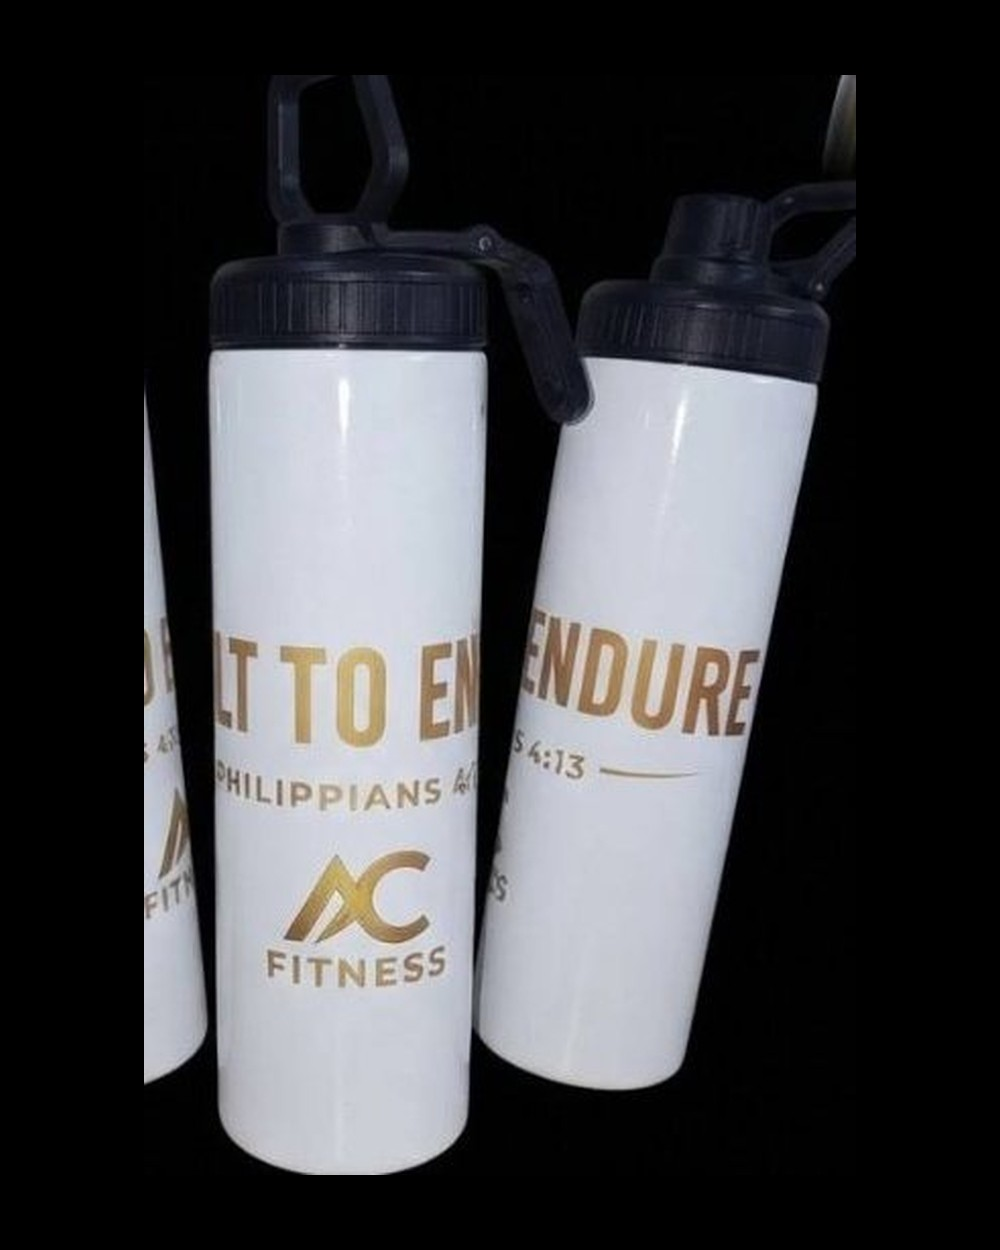
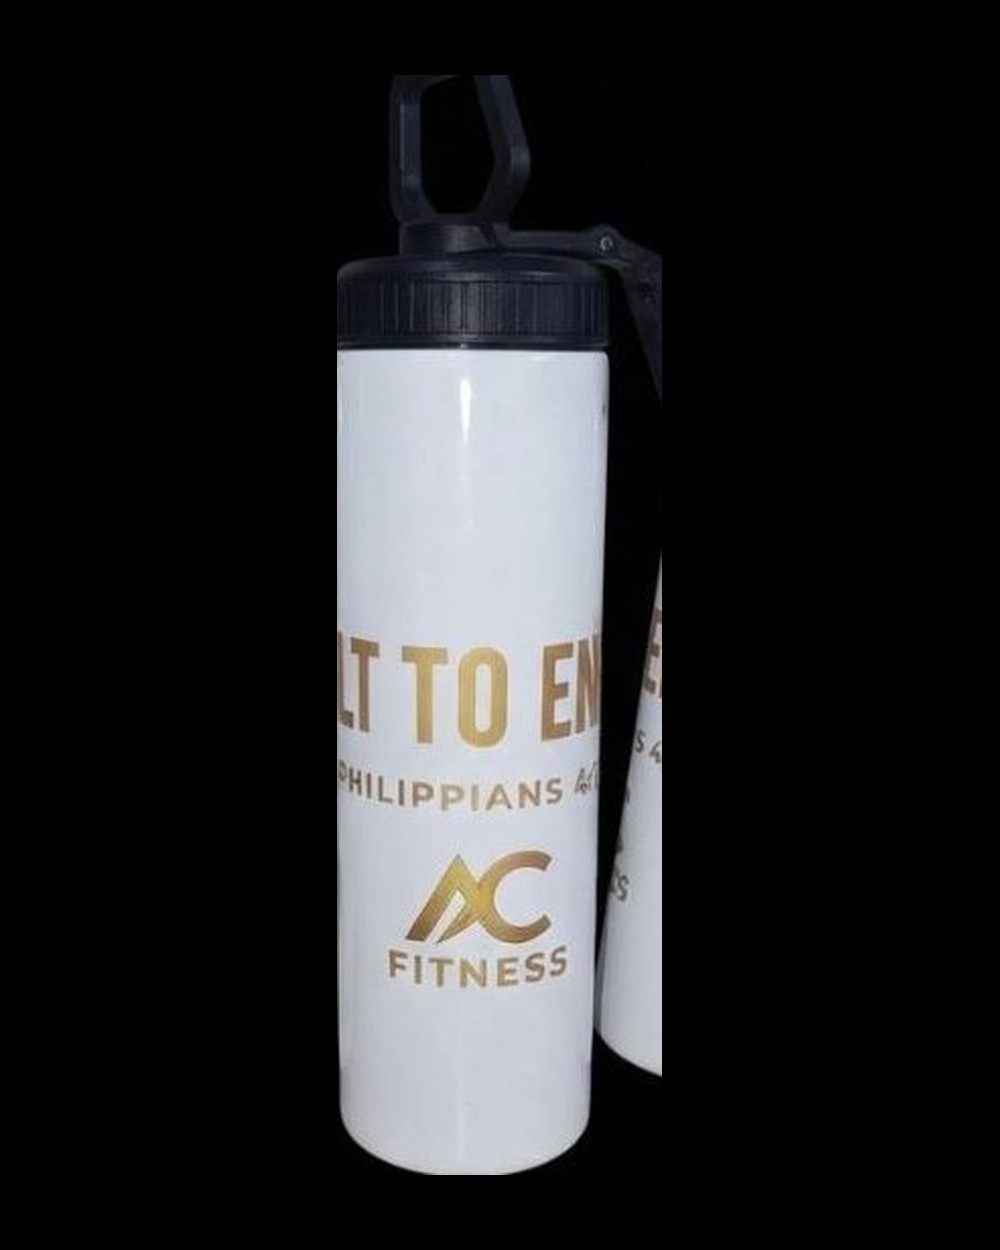
Reframe AC Fitness product photos to remove clipped left items
The WA marketing crops included a partial bottle/can on the far left that
could not be recovered. Reframe from the original catalogue commit onto
the 4:5 canvas using the fully visible centre product only.

Add scripts/reframe-ac-fitness.py so these can be regenerated from git
history if needed.

diff --git a/scripts/reframe-ac-fitness.py b/scripts/reframe-ac-fitness.py
@@ -1,0 +1,98 @@
+"""Reframe AC Fitness product photos that were clipped in the WA marketing crops."""
+
+from __future__ import annotations
+
+import subprocess
+from io import BytesIO
+from pathlib import Path
+
+from PIL import Image
+
+ROOT = Path(__file__).resolve().parents[1] / "public" / "products"
+SOURCE_COMMIT = "a2fe798"
+CANVAS = (1000, 1250)
+MARGIN = 0.06
+INK = 28
+MIN_PAD = 24
+
+
+def is_ink(pixel: tuple[int, int, int]) -> bool:
+    return pixel[0] <= INK and pixel[1] <= INK and pixel[2] <= INK
+
+
+def content_box(image: Image.Image) -> tuple[int, int, int, int]:
+    width, height = image.size
+    pixels = image.load()
+    min_x, min_y, max_x, max_y = width, height, 0, 0
+    for y in range(height):
+        for x in range(width):
+            if is_ink(pixels[x, y]):
+                continue
+            min_x = min(min_x, x)
+            min_y = min(min_y, y)
+            max_x = max(max_x, x)
+            max_y = max(max_y, y)
+    if max_x <= min_x or max_y <= min_y:
+        raise RuntimeError("No product pixels found")
+    pad = max(MIN_PAD, int(max(width, height) * 0.04))
+    return (
+        max(0, min_x - pad),
+        max(0, min_y - pad),
+        min(width, max_x + pad + 1),
+        min(height, max_y + pad + 1),
+    )
+
+# Original WA crops include a partial product on the left. Reframe to fully visible items.
+REFRAMES = {
+    "water-bottles/ac-fitness-bottle.jpg": {
+        "crop": (35, 0, 195, 540),
+        "note": "Single centre bottle; far-left sliver removed.",
+    },
+    "can-coolers/ac-fitness-cans.jpg": {
+        "crop": (300, 0, 530, 592),
+        "note": "Centre can only; partial left/right cans from WA crop removed.",
+    },
+}
+
+
+def git_source(relative: str) -> Image.Image:
+    result = subprocess.run(
+        ["git", "show", f"{SOURCE_COMMIT}:public/products/{relative}"],
+        capture_output=True,
+        check=True,
+    )
+    return Image.open(BytesIO(result.stdout)).convert("RGB")
+
+
+def normalize(image: Image.Image, *, pad_left: int = 0) -> Image.Image:
+    cropped = image.crop(content_box(image))
+    if cropped.height < 250:
+        raise RuntimeError(f"Content too short ({cropped.height}px)")
+
+    canvas = Image.new("RGB", CANVAS, (0, 0, 0))
+    max_w = int(CANVAS[0] * (1 - MARGIN * 2))
+    max_h = int(CANVAS[1] * (1 - MARGIN * 2))
+    scale = min(max_w / cropped.width, max_h / cropped.height)
+    resized = cropped.resize(
+        (max(1, int(cropped.width * scale)), max(1, int(cropped.height * scale))),
+        Image.Resampling.LANCZOS,
+    )
+    offset_x = (CANVAS[0] - resized.width) // 2 + pad_left
+    offset_y = (CANVAS[1] - resized.height) // 2
+    canvas.paste(resized, (offset_x, offset_y))
+    return canvas
+
+
+def main() -> None:
+    for relative, options in REFRAMES.items():
+        source = git_source(relative)
+        left, top, right, bottom = options["crop"]
+        reframed = source.crop((left, top, right, bottom))
+        output = normalize(reframed, pad_left=int(options.get("pad_left", 0)))
+        dest = ROOT / relative
+        output.save(dest, quality=90, optimize=True)
+        print(f"ok  {relative:40} {options['note']}")
+
+
+if __name__ == "__main__":
+    main()
